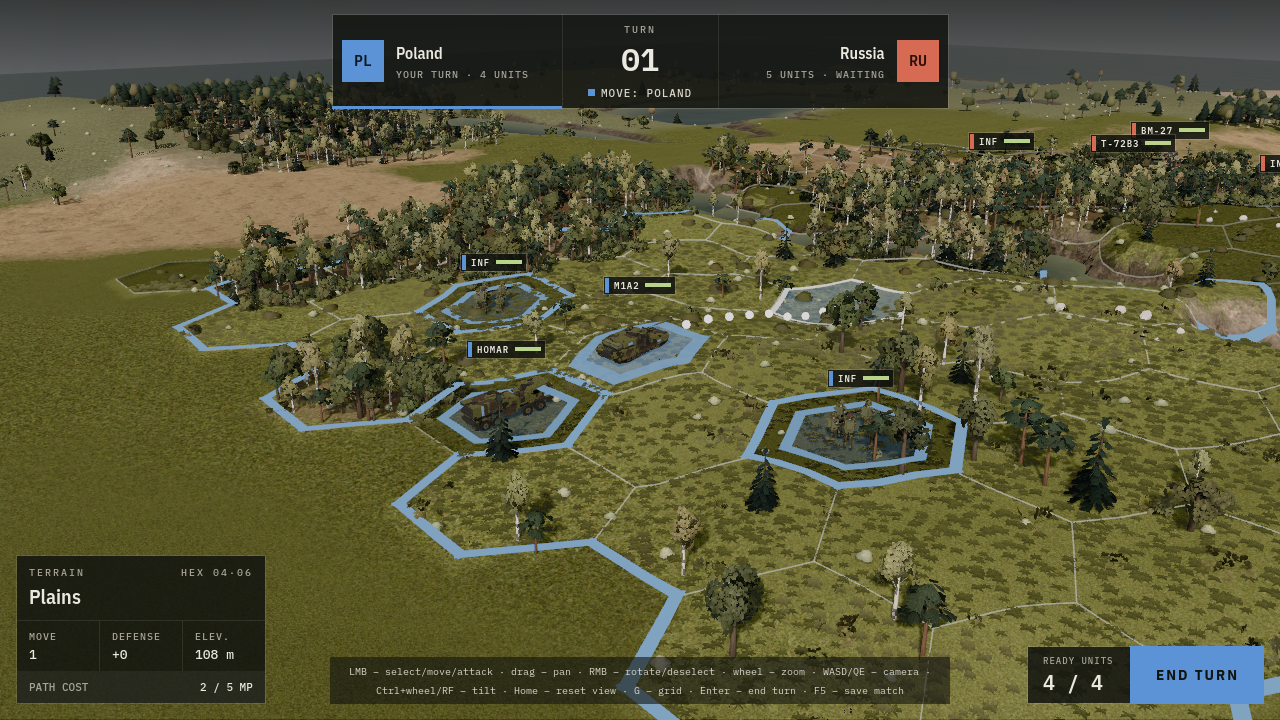
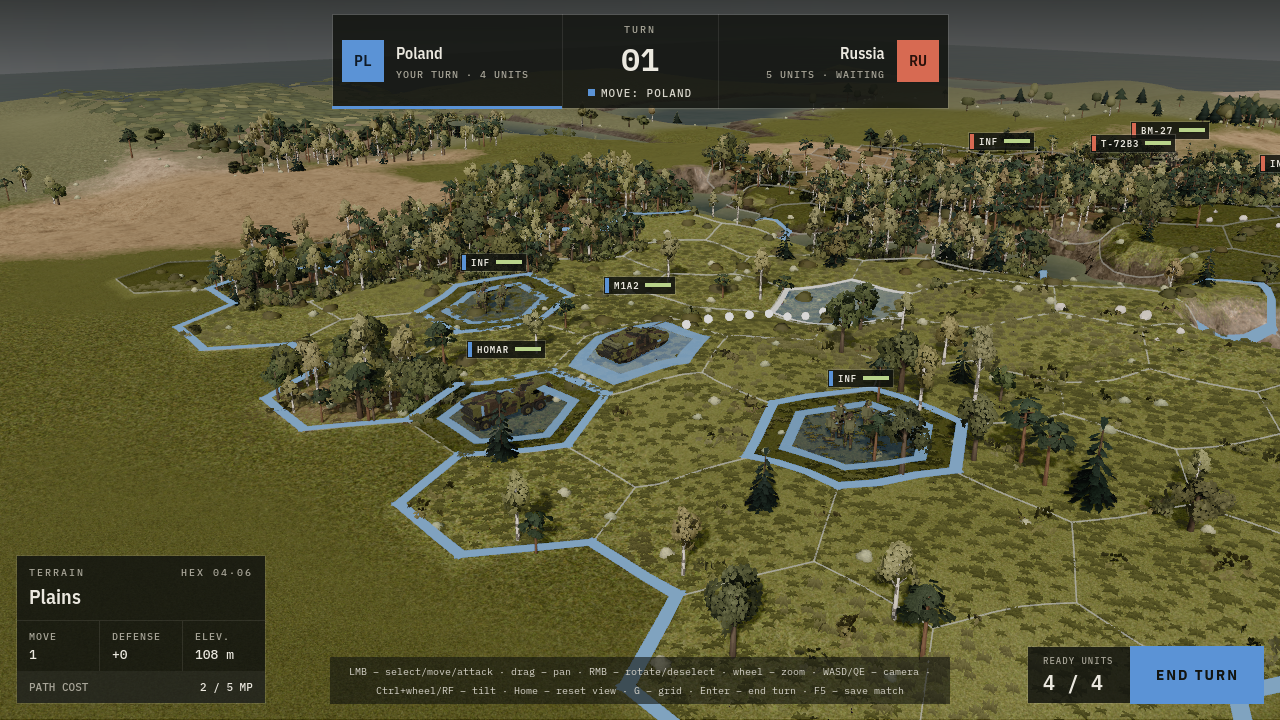
Performance: stop bush/rock shadows (one map-wide MultiMesh drawn in every cascade, ~11M of 15M triangles), backdrop canopy shell instead of distant trees, wind only near the camera, FPS/GPU counter, render stats in screenshot probe

diff --git a/docs/ARCHITECTURE.md b/docs/ARCHITECTURE.md
@@ -71,7 +71,7 @@ Ground overlays (unit marker rings and fills, reach / range / attack / hover was
 
 Trees (TASK-060) are cosmetic and view-only; `ScatterPlanner` still plans them (placement, counts and the high-ground conifer rule unchanged). `TreeSpecies.pick(tree)` (pure, static, a hash of the planned `position` and `k`, no RNG object) turns a planned tree into `{species, variant, custom}`: conifers become pine (60 %) or spruce (40 %), the others birch (35 %), oak (30 %) or alder (35 %); `custom` is the instance's `INSTANCE_CUSTOM` (r hue shift +-0.03, or +0.04..0.07 on the 1 in 25 yellower "autumn" deciduous tree; g value x0.85..1.1; b saturation x0.9..1.05; a wind phase). `TreeMeshes` (pure, cached, deterministic from `(species, variant)`, 3 variants per species, base at y = 0) builds one `ArrayMesh` with two surfaces per tree: bark (a tapered lathe trunk closed by a cap inside the crown, tapered branch rods) and leaves (LOD0: 60-120 alpha-scissor cards for deciduous crowns on lobes at the branch tips, 40-100 needle cards for conifers – spruce in drooping whorls, pine as flat tufts on short upper branches; LOD1: three jittered icosphere lobes with the hidden triangles dropped, or a cone stack). Crown normals are bent outwards from the crown centre; vertex colour r = AO, g = per-card flutter phase, b = 1 on leaves / 0 on bark. LOD0 is 230-341 triangles per tree on average per species, LOD1 26-155. `LeafTexture` paints the neutral-grey cards (`cluster` for leaves, `needles` for conifers; alpha 0/1, procedural – no CC0 textures are used).
 
-`TreeField` (a `Node3D` owned by `MapView`, built in `MapView.build()` after `Wind.setup`) groups the map and backdrop trees into 8 x 8 unit chunks and makes one `MultiMeshInstance3D` per chunk x species x variant x LOD that has instances, origin at the chunk centre. LOD0 nodes: `visibility_range_end` 30, margin 4; LOD1 nodes (one mesh per species): `visibility_range_begin` 30, margin 4; both `FADE_SELF` and shadow casting (the card shadows are alpha-scissored). Backdrop trees more than `BACKDROP_LOD0_REACH` (14) units outside the playable tiles get only a "far" LOD1 node without a range: that keeps the LOD0 triangles of all chunks within 41 units (30 + 4 + `CameraMath.MIN_DISTANCE`) of any playable tile centre under 1 100 000 (default map: ~1 050 000 with scrub, was ~702 000 before TASK-061; tested). Instance size is `VisualScale.tree_scale()` (`TreeField.tree_transform`). LOW (`foliage = false`) builds no trees. `assets/shaders/foliage.gdshader` (one material per species and LOD) shades both surfaces: species leaf colour shifted per instance in HSV, alpha scissor 0.5 with alpha to coverage under MSAA, `BACKLIGHT` 0.35 x leaf colour, bark with procedural streaks (birch: light with dark marks); wind: the whole tree sways with `wind_offset(instance origin, y / 0.3, phase)` and leaf cards flutter with `wind_flutter` (at most 0.003 world units), both from the shared include. Scrub (TASK-061: species `shrub` and `undergrowth`, planned by `ScatterPlanner` as `edge_shrubs` / `ground_cover` with a `species` key, built from `TreeMeshes.SCRUB`) goes through the same field with shorter LOD0 ranges (`TreeField.SCRUB_LOD_DISTANCE`); undergrowth casts no shadows. Thickets on open ground (TASK-070: a shrub with two undergrowth plants at a tile border, `ScatterPlanner.plan_tile_meadow`, output key `meadow_scrub`, own RNG stream, map tiles only – not the backdrop – and absent under `current` or on LOW) go through the same field. Bushes and rocks still use `FoliageMeshes`. `tools/screenshot.sh` can aim at a world point (`SCREENSHOT_FOCUS=<x>,<z>,<yaw>,<distance>`) and time frames (`SCREENSHOT_MEASURE_FRAMES=N` prints `Frame time: avg X ms, max Y ms over N frames`, vsync off).
+`TreeField` (a `Node3D` owned by `MapView`, built in `MapView.build()` after `Wind.setup`) groups the map and backdrop trees into 8 x 8 unit chunks and makes one `MultiMeshInstance3D` per chunk x species x variant x LOD that has instances, origin at the chunk centre. LOD0 nodes: `visibility_range_end` 30, margin 4; LOD1 nodes (one mesh per species): `visibility_range_begin` 30, margin 4; both `FADE_SELF` and shadow casting (the card shadows are alpha-scissored). Backdrop trees more than `BACKDROP_LOD0_REACH` (14) units outside the playable tiles get only a "far" LOD1 node without a range: that keeps the LOD0 triangles of all chunks within 41 units (30 + 4 + `CameraMath.MIN_DISTANCE`) of any playable tile centre under 1 100 000 (default map: ~1 050 000 with scrub, was ~702 000 before TASK-061; tested). Instance size is `VisualScale.tree_scale()` (`TreeField.tree_transform`). LOW (`foliage = false`) builds no trees. `assets/shaders/foliage.gdshader` (one material per species and LOD) shades both surfaces: species leaf colour shifted per instance in HSV, alpha scissor 0.5 with alpha to coverage under MSAA, `BACKLIGHT` 0.35 x leaf colour, bark with procedural streaks (birch: light with dark marks); wind: the whole tree sways with `wind_offset(instance origin, y / 0.3, phase)` and leaf cards flutter with `wind_flutter` (at most 0.003 world units), both from the shared include. Scrub (TASK-061: species `shrub` and `undergrowth`, planned by `ScatterPlanner` as `edge_shrubs` / `ground_cover` with a `species` key, built from `TreeMeshes.SCRUB`) goes through the same field with shorter LOD0 ranges (`TreeField.SCRUB_LOD_DISTANCE`); undergrowth and backdrop trees cast no shadows; the wind only moves trees within `wind_distance` (24, faded over 8) of the camera, LOD1 crowns not at all. Thickets on open ground (TASK-070: a shrub with two undergrowth plants at a tile border, `ScatterPlanner.plan_tile_meadow`, output key `meadow_scrub`, own RNG stream, map tiles only – not the backdrop – and absent under `current` or on LOW) go through the same field. Bushes and rocks still use `FoliageMeshes`. Distant forest: real backdrop scatter only within `MapView.BACKDROP_SCATTER_REACH` (4) of the playable mesh; beyond it `BackdropCanopy` draws a cheap shell over the backdrop lattice (forest share of the nearest border tiles as vertex colour r, faded in over 1.5..5 units) with `assets/shaders/canopy.gdshader`, which paints jittered Voronoi crowns in the species colours (a crown is dropped when its hash exceeds the cover, so edges are ragged). `tools/screenshot.sh` can aim at a world point (`SCREENSHOT_FOCUS=<x>,<z>,<yaw>,<distance>`) and time frames (`SCREENSHOT_MEASURE_FRAMES=N` prints `Frame time: avg X ms, max Y ms over N frames`, vsync off).
 
 ## Ground marks (decals)
 
